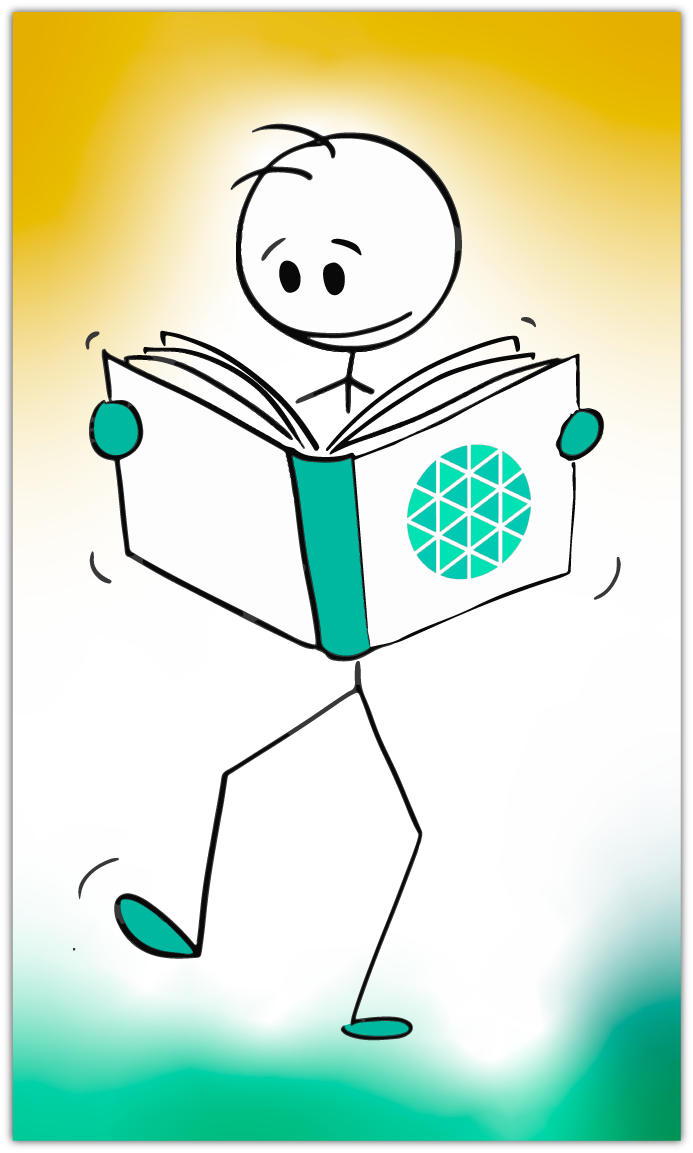
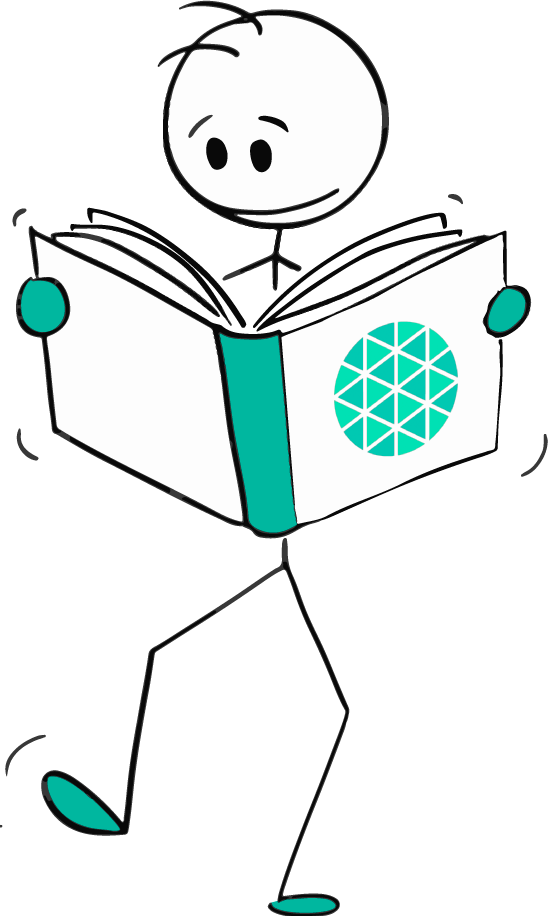
image fix and featured-image added

diff --git a/collections/_posts/2024-03-29-models-designs-legos.md b/collections/_posts/2024-03-29-models-designs-legos.md
@@ -6,6 +6,7 @@ author_contributor: Lee Calcote
 categories: 
   - Meshery
 permalink: /blog/lego-bricks-and-lego-instructions
+featured-image: /assets/images/posts/2024-03-29-models-designs-legos/five-legos.png
 ---
 
 In Meshery, two key concepts play a pivotal role in managing infrastructure and deployments: Meshery Models and Meshery Designs. Understanding their difference and their similarities will greatly increase your benefit from these two powerful, systems management paradigms.
@@ -30,7 +31,7 @@ Meshery Models are packages that contain infrastructure components with specific
 - **Usability:** Not directly deployable, but used as building blocks within Designs.
 - **Sharing:** Can be packaged and shared for others to use in their Designs.
 
-<img alt="Meshery Catalog" src="/assets/images/posts/2024-03-29-models-designs-legos/five-legos.png" width="100%" />
+<img alt="Meshery Catalog" src="/assets/images/posts/2024-03-29-models-designs-legos/five-legos-nobg.png" width="100%" />
 Meshery Models are like the individual Lego bricks - they define the building blocks for infrastructure with specific characteristics.
 
 ## Meshery Designs (similar to Lego instructions)
@@ -45,7 +46,7 @@ In essence:
 - **Sharing:** Can be exported, versioned, shared, and published for reuse by others.
 
 
-<img alt="Meshery Catalog" src="/assets/images/posts/2024-03-29-models-designs-legos/five-instructions.png" width="100%" />
+<img alt="Meshery Catalog" src="/assets/images/posts/2024-03-29-models-designs-legos/five-instructions.png" style="border: 0px; width: 179px; height: 300px; margin: 0px; float: right;" />
 Meshery Designs are like the Lego instructions - they use Models (like bricks) to lay out the specific infrastructure deployment plan.
 
 **Analogy:** Think of Models as Lego bricks (defining types of pieces) and Designs as Lego instructions (defining how to build something specific). In summary, Meshery Models serve as the theoretical frameworks, while Meshery Designs translate these frameworks into tangible deployments, enabling you to design, deploy, and manage your infrastructure efficiently within the cloud and cloud native ecosystem.
